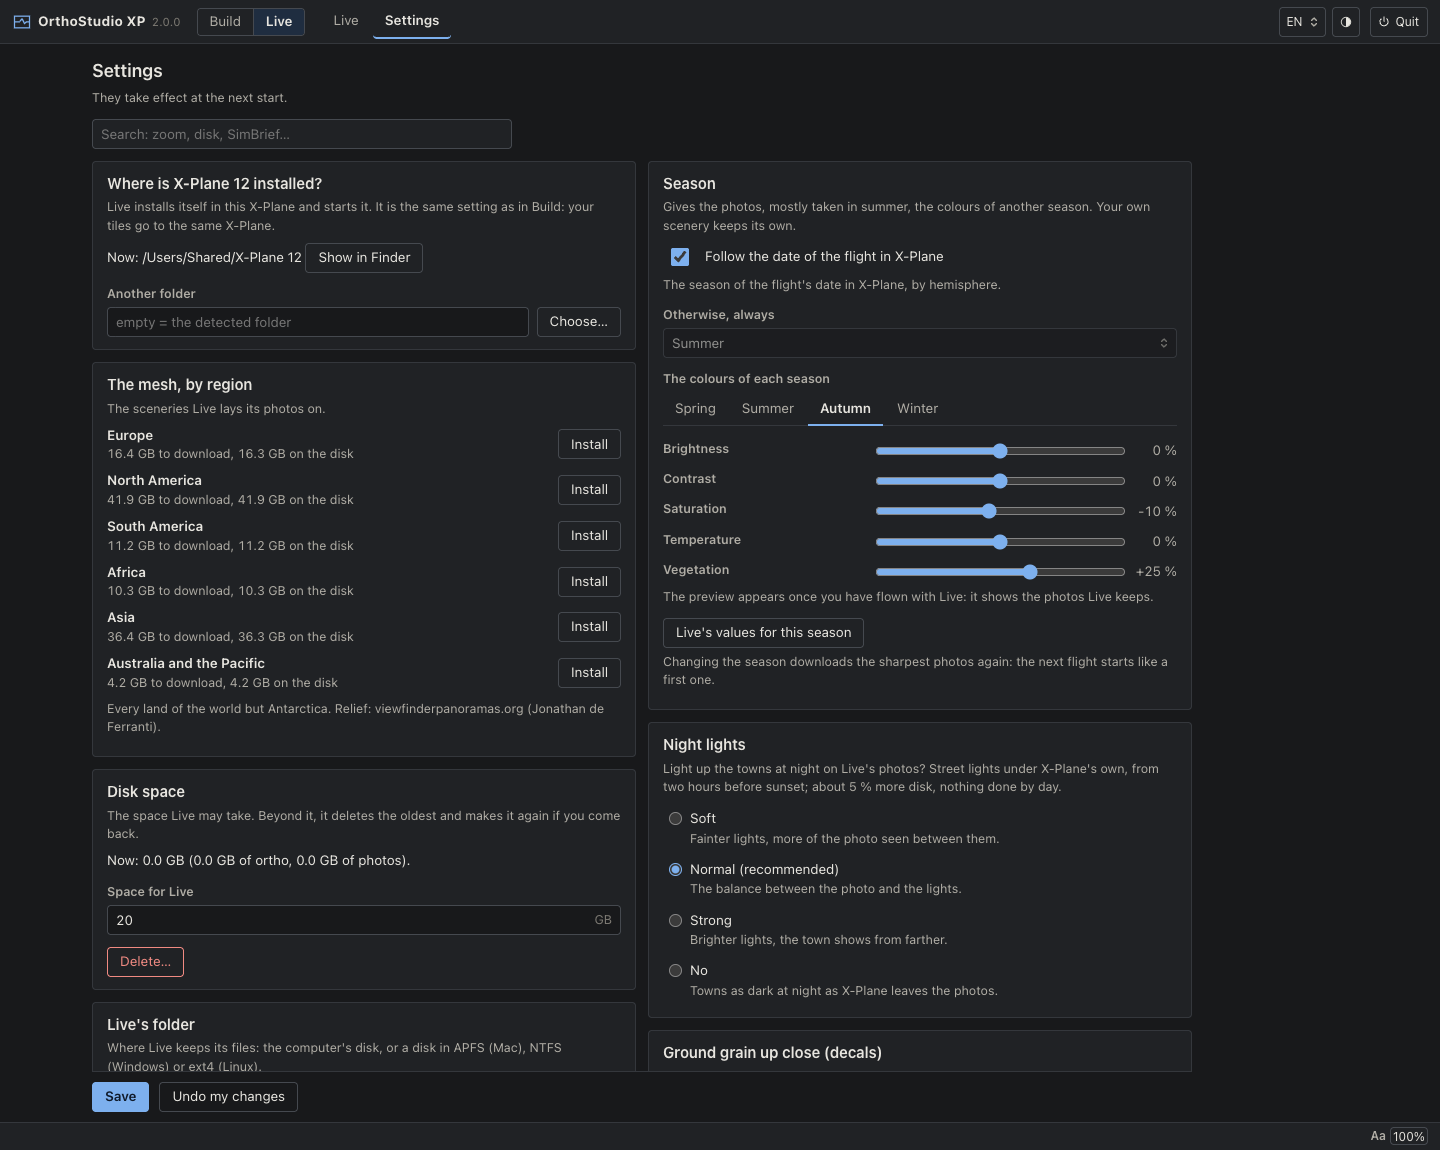
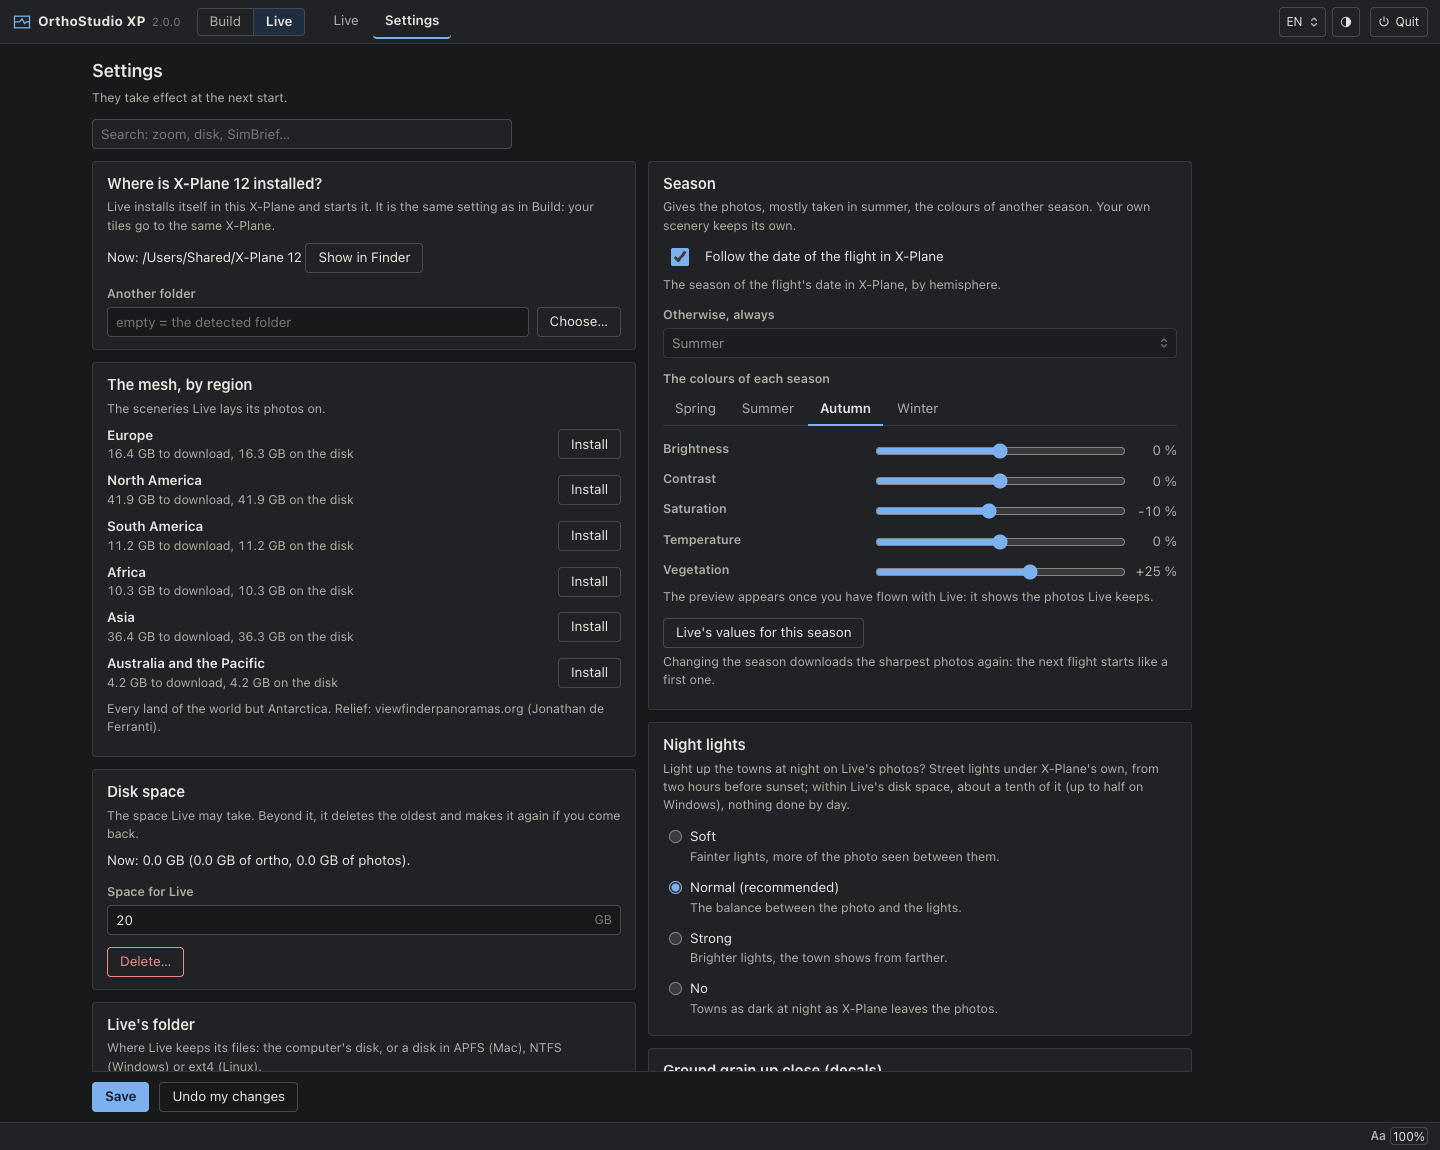
The disk counts each night by itself at the sharpest it may hold, and each copy from its job
- A night texture is counted by itself, its texture built or stale (a season's change left them all out), at the sharpest level it may hold: the sharper of two while a job runs, what came back once one has, until it is put back black with no job running.
- An 8192 px copy is counted from the moment it is given, while its file is built from the level it copies, and forgotten if it fails.
- The Settings say about a tenth (up to half on Windows); the guide says the night starts at the first start with X-Plane not running after an update, and its picture of the Settings shows the new words.

Changed region(s): [[0.4688, 0.6696, 0.7812, 0.8826], [0.4688, 0.913, 0.625, 0.9435]]

diff --git a/src/orthostudio/live/ui/strings.js b/src/orthostudio/live/ui/strings.js
@@ -218,7 +218,7 @@ export const STRINGS = {
     "overlays.off": "No",
     "overlays.off_note": "Bare ground, except what your other sceneries add.",
     "night.title": "Night lights",
-    "night.help": "Light up the towns at night on Live's photos? Street lights under X-Plane's own, from two hours before sunset; within Live's disk space, a tenth of it at most (up to nearly half on Windows), nothing done by day.",
+    "night.help": "Light up the towns at night on Live's photos? Street lights under X-Plane's own, from two hours before sunset; within Live's disk space, about a tenth of it (up to half on Windows), nothing done by day.",
     "night.soft": "Soft",
     "night.soft_note": "Fainter lights, more of the photo seen between them.",
     "night.normal": "Normal (recommended)",
@@ -619,7 +619,7 @@ export const STRINGS = {
     "overlays.off": "Non",
     "overlays.off_note": "Le sol nu, sauf ce qu'ajoutent vos autres scènes.",
     "night.title": "Lumières de nuit",
-    "night.help": "Éclairer les villes la nuit sur les photos de Live ? Les lumières des rues, sous celles de X-Plane, dès deux heures avant le coucher du soleil ; dans l'espace disque de Live, un dixième au plus (jusqu'à près de la moitié sous Windows), rien de fait le jour.",
+    "night.help": "Éclairer les villes la nuit sur les photos de Live ? Les lumières des rues, sous celles de X-Plane, dès deux heures avant le coucher du soleil ; dans l'espace disque de Live, environ un dixième (jusqu'à la moitié sous Windows), rien de fait le jour.",
     "night.soft": "Douces",
     "night.soft_note": "Des lumières plus faibles, la photo plus visible entre elles.",
     "night.normal": "Normales (recommandé)",

diff --git a/src/orthostudio/live/nightwork.py b/src/orthostudio/live/nightwork.py
@@ -437,10 +437,11 @@ class NightWork:
         # off in the settings while the pack's terrain files still name night textures (turned off
         # while X-Plane ran, region.set_night): none made, those there counted and followed
         self.lights = lights
-        # the level of each night texture that may hold lights, as the disk counts it (kept in the
-        # textures' record): counted from the moment it is given, until it comes back black or is
-        # put back black, so the count is never short (a Live stopped while it was made, Windows
-        # refusing to put one back black)
+        # the sharpest level each night texture may hold lights from, as the disk counts it (kept
+        # in the textures' record): from the moment it is given, the sharper of the two while a
+        # job runs, what came back once one has; gone once put back black with none running
+        # (a Live stopped while one was made, Windows refusing to put one back black: the count
+        # is not short)
         self.lit: dict[str, int] = {}
         self.team = 1  # the processes at a start at night: Live's encoders (the streamer's)
         self.top_of: Callable[[str], int] = lambda name: 0  # a file's sharpest level (streamer's)
@@ -647,7 +648,9 @@ class NightWork:
                         self.made[name] = min(level, self.made.get(name, 99))
                         self.tries.pop(name, None)
                         self.seconds += said
-                        if not lit:  # the black name, which takes nothing
+                        if lit:  # its file written again: what it holds now
+                            self.lit[name] = level
+                        else:  # the black name, which takes nothing
                             self.lit.pop(name, None)
         for name in black:
             with contextlib.suppress(OSError):  # black again at its next eviction
@@ -727,7 +730,7 @@ class NightWork:
                 for name, level in batch:
                     del self.wanted[name]
                     self.running[name] = level
-                    self.lit[name] = level
+                    self.lit[name] = min(level, self.lit.get(name, level))
             self._jobs[pool] = self._jobs.get(pool, 0) + len(order)
         apart = size == 1  # one process lives the whole flight: a DSF read apart (_read_apart)
         for i, batch in enumerate(order):
@@ -786,8 +789,9 @@ class NightWork:
                 self._pool_names.replace(0, path)
             else:
                 path.unlink(missing_ok=True)
-        with self.lock:  # once done: refused (Windows), it still holds its lights
-            self.lit.pop(name, None)
+        with self.lock:  # once done (refused, Windows: it still holds its lights), none running
+            if name not in self.running:  # (one running writes its lights after: pump then)
+                self.lit.pop(name, None)
 
     def _job(self, name: str, level: int, apart: bool) -> tuple:
         tex = parse_texture_name(name)

diff --git a/tests/test_live_night.py b/tests/test_live_night.py
@@ -671,6 +671,33 @@ class NightWorkTest(unittest.TestCase):
             self.work.back_to_black(self.near)  # Windows refuses
         self.assertEqual(self.work.lit, {self.near: 0})  # its lights there: still counted
 
+    def test_a_night_counted_at_the_sharpest_it_may_hold(self):
+        """Made coarser while its job wrote it sharp, or refused black by Windows then given
+        coarser: counted as the job left it, never as the coarser one asked (the reviews of
+        2026-11-11)."""
+        from unittest import mock
+
+        self.work.tick((43.70, 7.25), (314, 20.0), lambda: {self.near: 0})
+        self.turn()
+        self.work.back_to_black(self.near)  # made coarser while its job runs
+        self.work.built(self.near, 4)
+        self.assertEqual(self.work.lit, {self.near: 0})  # its job writes it sharp all the same
+        self.pools[0].finish()
+        self.turn()  # back: black, then given again from its new level
+        self.assertEqual(self.work.lit, {self.near: 4})
+        self.pools[0].finish()
+        self.turn()
+        self.work.lit[self.near] = 0  # say it is sharp again, and Windows refuses it black
+        with (
+            mock.patch("orthostudio.live.names.NightPool.replace", side_effect=PermissionError),
+            mock.patch("pathlib.Path.exists", return_value=True),
+            self.assertRaises(PermissionError),
+        ):
+            self.work.back_to_black(self.near)
+        self.work.built(self.near, 4)
+        self.turn()
+        self.assertEqual(self.work.lit, {self.near: 0})  # given coarser: still the sharp one
+
     def test_back_to_black_and_while_being_made(self):
         import os
 
@@ -1121,6 +1148,15 @@ class NightDiskTest(unittest.TestCase):
         coarser = pick(built, {"copied": 1.0}, lambda n: n == "copied", both - 1, tops,
                        lit={"lit": 0}, copied=["copied"])  # fmt: skip
         self.assertEqual(coarser, [("copied", 4)])
+
+    def test_a_night_counted_by_itself_its_texture_built_or_stale(self):
+        """Counted with their built texture only, a season's change left every night out (the
+        review of 2026-11-11); a copy only where the file is built from the level it copies."""
+        from orthostudio.live.evict import held_bytes, night_bytes, texture_bytes, usage
+
+        self.assertEqual(usage({}, lit={"stale.dds": 0}), night_bytes(0))
+        self.assertEqual(held_bytes("a", 4, -1, None, {"a"}), texture_bytes(4, -1))
+        self.assertEqual(held_bytes("a", 0, -1, None, {"a"}), texture_bytes(-1, -1))
 
     def test_night_lights_off_under_x_plane_its_nights_counted_and_followed(self):
         """Turned off while X-Plane ran: the night textures made before stayed on the disk,

diff --git a/src/orthostudio/live/evict.py b/src/orthostudio/live/evict.py
@@ -162,17 +162,21 @@ def usage(
     lit: Mapping[str, int] | None = None,
     copied: Collection[str] = (),
 ) -> int:
-    """The disk of the textures built, as their files hold them; ``top_of``: each one's file size
-    (its sharpest level), 4096 px for all when not given; ``lit``: the level of each night texture
-    holding lights (orthostudio.live.nightwork); ``copied``: the 8192 px files holding the copy of
-    their 4096 px level (orthostudio.live.texture.copy_up). Counted for all, the night took half
-    of Windows' space by day before any was made, and an 8192 px copy, 33 MB, went uncounted (the
-    review of 2026-11-11)."""
+    """The disk of the textures built and of the night textures, as their files hold them;
+    ``top_of``: each one's file size (its sharpest level), 4096 px for all when not given;
+    ``lit``: the level of each night texture that may hold lights, built or not (a stale
+    texture's night is on the disk until put back black: orthostudio.live.nightwork);
+    ``copied``: the 8192 px files that may hold the copy of their 4096 px level
+    (orthostudio.live.texture.copy_up). Counted for every texture, the night took half of
+    Windows' space by day before any was made, and an 8192 px copy, 33 MB, went uncounted; a
+    night counted with its built texture only, a season's change left them all out (the reviews
+    of 2026-11-11)."""
     lit, copied = lit or {}, frozenset(copied)  # looked up by name: in a list, 2.5 s a count
-    if top_of is None and not lit and not copied:
-        return levels_usage(Counter(built.values()))
+    nights = sum(night_bytes(level) for level in lit.values())
+    if top_of is None and not copied:
+        return levels_usage(Counter(built.values())) + nights
     top_of = top_of or (lambda _: 0)
-    return sum(held_bytes(n, lv, top_of(n), lit, copied) for n, lv in built.items())
+    return sum(held_bytes(n, lv, top_of(n), None, copied) for n, lv in built.items()) + nights
 
 
 def held_bytes(
@@ -183,9 +187,10 @@ def held_bytes(
     copied: Collection[str] = (),
 ) -> int:
     """Disk the file of ``name`` takes, built from ``level``, and its night texture, as
-    :func:`usage` counts them."""
+    :func:`usage` counts them: a copy only where the file is built from its 4096 px level, the
+    one it copies (another since, by an older Live: none there)."""
     night = (lit or {}).get(name)
-    day = texture_bytes(-1 if name in copied else level, top)
+    day = texture_bytes(-1 if level == 0 and name in copied else level, top)
     return day + (0 if night is None else night_bytes(night))
 
 

diff --git a/src/orthostudio/live/streamer.py b/src/orthostudio/live/streamer.py
@@ -436,9 +436,8 @@ class Streamer:
         self.cruising = False  # high enough that no 8192 px level gets its photos (_cruise_height)
         self.meta = load_built(pack_dir)
         self.built: dict[str, int] = dict(self.meta.get("textures", {}))
-        # recorded with them: on the disk until their file is written again (evict.usage); a file
-        # built otherwise since (an older Live) holds none
-        self.copied_up = {n for n in self.meta.get("copied", []) if self.built.get(n) == 0}
+        # recorded with them: on the disk until their file is written again (evict.usage)
+        self.copied_up: set[str] = set(self.meta.get("copied", []))
         self.built_version = 0  # one more at each change of built: the window's map
         # built without pieces that did not come: when to build them again, and how many times
         self.patchy: dict[str, tuple[float, int]] = {
@@ -1431,6 +1430,8 @@ class Streamer:
                     continue
                 top = self.top_of(name)
                 neutral = self.neutral_for(top)
+                with self.lock:  # counted from now: a Live stopped meanwhile writes it all the same
+                    self.copied_up.add(name)
                 copying[name] = pool.submit(
                     copy_up,
                     self.pack_dir / "textures" / name,
@@ -1460,10 +1461,10 @@ class Streamer:
                     fut.result()
                 except Exception as e:
                     self.log(f"  could not copy up the 4096 px level of {name}: {e}")
+                    with self.lock:
+                        self.copied_up.discard(name)
                     continue
                 writes.add("8192 px copies of the 4096 px level", dds.level_layout(-1)[0][1])
-                with self.lock:
-                    self.copied_up.add(name)
                 self.log(
                     f"  {name}: its 8192 px photos late, its 4096 px level copied up meanwhile"
                 )

diff --git a/docs/specs/live.md b/docs/specs/live.md
@@ -706,13 +706,16 @@ were built, 64 s; the roads and lamps laid out at once rather than a road at a t
 roads in files, 27 s; the team from the first texture, 7 s; the near ones to it too, 0 s.
 
 **The disk.** Live stays within its disk space, each file counted as it holds (`evict.usage`): a
-texture's night texture at the level it was given, from the moment it is given until it comes
-back black or is put back black (`NightWork.lit`, kept in the textures' record as `lit`, the
-stale textures' too; a night without a light is the black name, which takes nothing), so the
-count is never short: a Live stopped while one was made, Windows refusing to put one back black
-(the review of 2026-11-11); and an 8192 px file's copy of its 4096 px level once made
-(`Streamer.copied_up`, kept as `copied`, 33 MB more a file; read back only for a file still built
-from its 4096 px level). A change of the night lights between on and off forgets `lit`
+night texture from the moment it is given, at the sharpest level it may hold (the sharper of the
+two while a job runs, what came back once one has), until it comes back black or is put back
+black with no job running (`NightWork.lit`, kept in the textures' record as `lit`; a night
+without a light is the black name, which takes nothing), counted by itself, its texture built
+or stale (a season's change left them all out, counted with their built texture); and an 8192
+px file's copy of its 4096 px level from the moment it is given (`Streamer.copied_up`, kept as
+`copied`, 33 MB more a file), counted while the file is built from that level. Short only by
+what a crash loses since the record's last save (every 30 s): a Live stopped while they were
+made, Windows refusing to put one back black, a night made coarser while a job wrote it sharper
+are counted (the reviews of 2026-11-11). A change of the night lights between on and off forgets `lit`
 (`region.set_night`). Looked up by name in sets and dictionaries: the record's lists made the
 Settings' figure 2.5 s for 28,800 night textures, every 3 s. Counted for every texture, the night took half of Windows' space by
 day before any was made, and a copy went uncounted (the review of 2026-11-11). Live stopped, the

diff --git a/docs/live.md b/docs/live.md
@@ -284,7 +284,7 @@ night.
 - Live stays within its disk space, each file counted as the disk takes it: the night textures
   made take a part of it, those with lights only (none is made by day; those made stay on the
   disk), and X-Plane's roads kept for them 5 % of it, 1 GB at most. On a Mac and on Linux the
-  night textures take about a tenth of what Live keeps at most; on Windows up to nearly half,
+  night textures take about a tenth of what Live keeps, a seventh at most; on Windows up to half,
   where the disk (NTFS) gives a far texture's file 128 KB whatever it holds, a night one as a
   photo (on a start at LSGG, every night texture lit: 11 % on a Mac, 44 % on Windows; the sea
   and the forests take nothing). With the same night textures on a tile of Nice, flown three times each way at
@@ -295,7 +295,9 @@ night.
 shows from the next start: Live makes its night textures again as night comes, the nearest first.
 "No": no night texture, the terrain files naming none; the night textures and the roads kept for
 them are deleted. A change between on and off takes effect at the next start with X-Plane not
-running, as the decal's: the terrain files flown already are made again as X-Plane comes.
+running, as the decal's: the terrain files flown already are made again as X-Plane comes. So does
+the night itself after an update from a version without it: Live started while X-Plane runs
+lights nothing until then.
 
 ## Imagery sources, your own tiles, roads and forests
 
